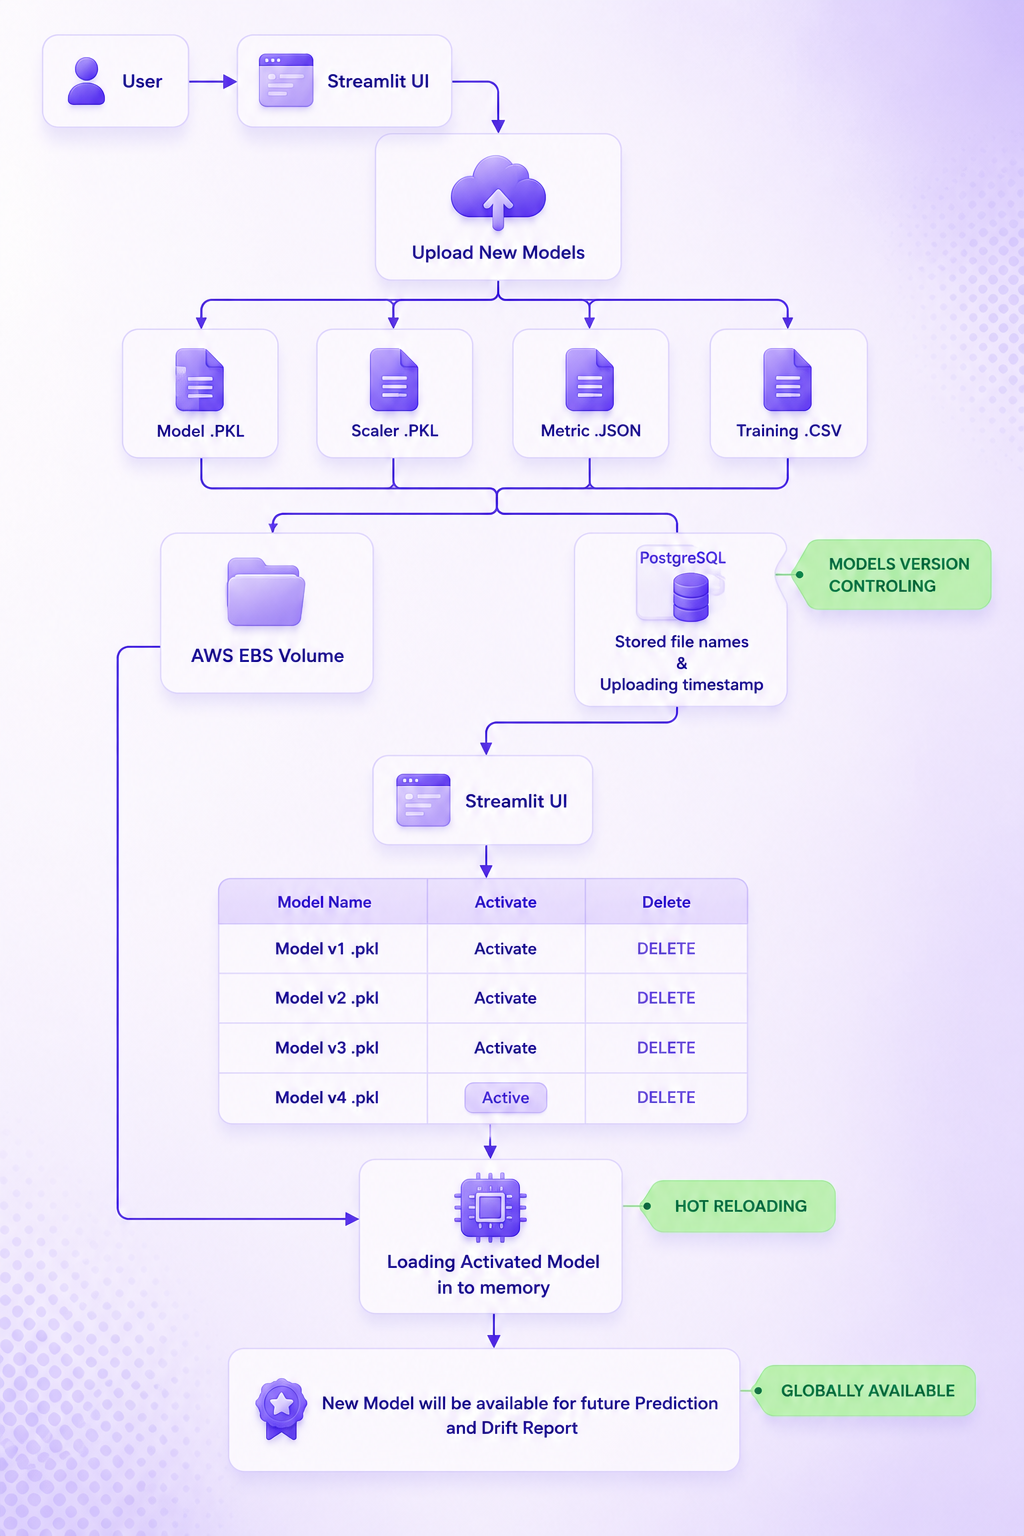
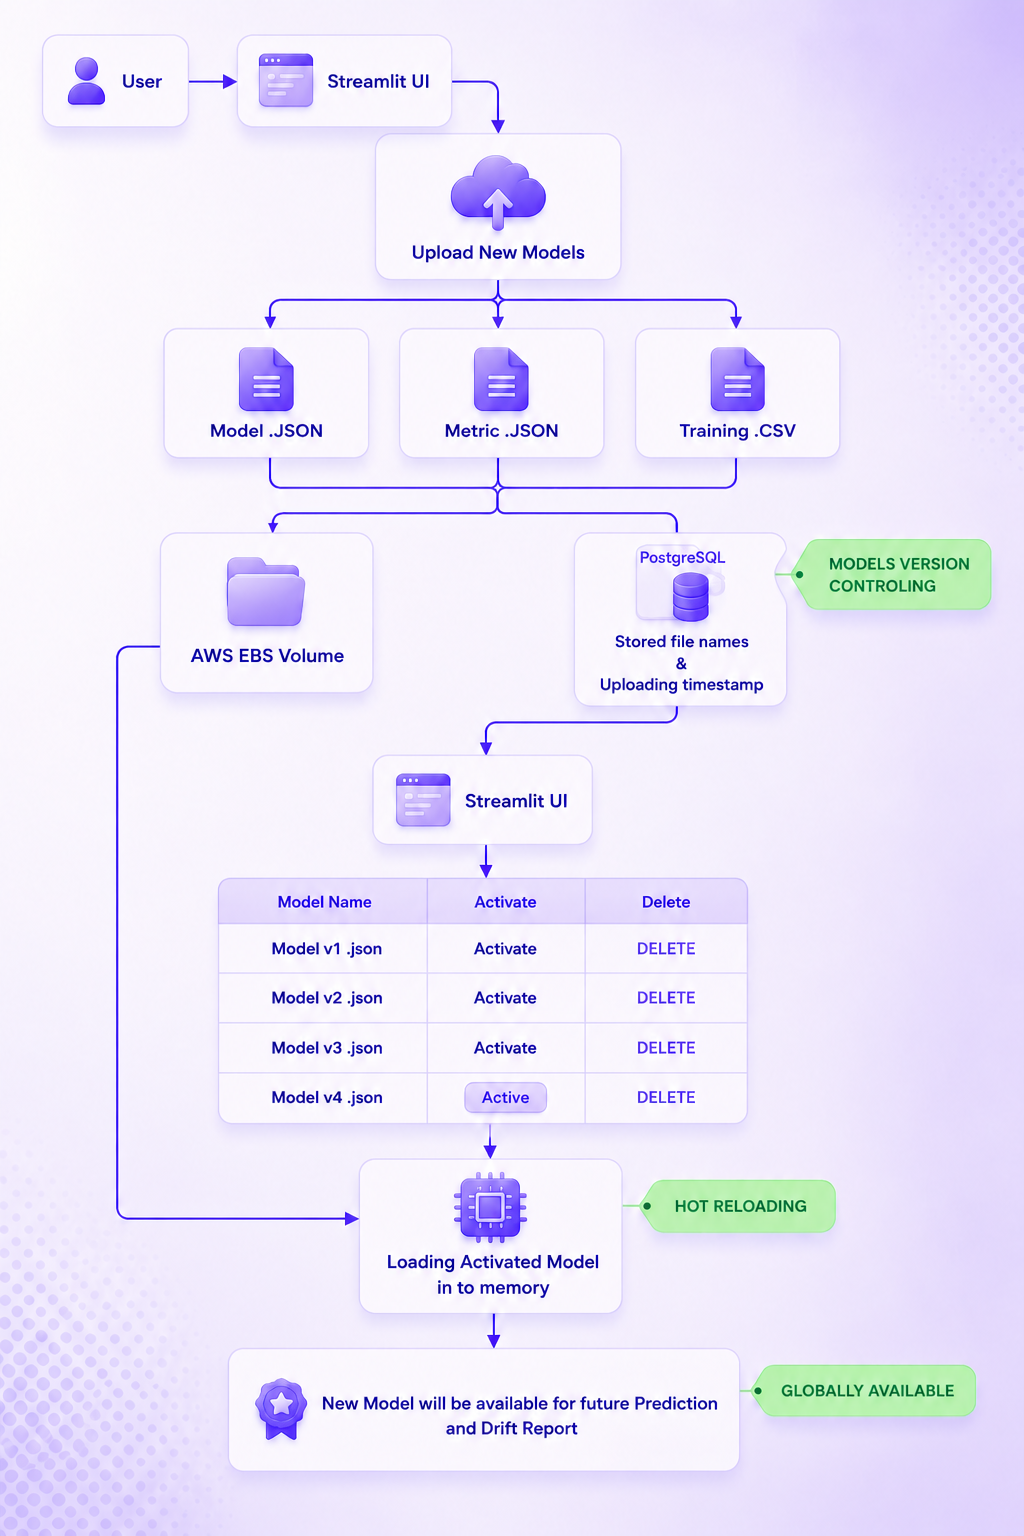
V2 Architectures design improvement

diff --git a/README.md b/README.md
@@ -121,12 +121,11 @@ DriftShield continuously monitors production prediction data by comparing it wit
 
 Monitoring a machine learning model is only one part of maintaining a production ML system. Once model degradation is identified, organizations must be able to deploy improved model versions in a controlled manner while ensuring continuous service availability and minimizing operational risks.
 
-DriftShield addresses this challenge through a centralized **Model Registry**, which manages the complete lifecycle of deployed machine learning models. Instead of manually replacing model files or modifying application code, new model versions are registered together with their required deployment artifacts, including the trained model, feature scaler, evaluation metrics, and reference dataset.
+DriftShield addresses this challenge through a centralized **Model Registry**, which manages the complete lifecycle of deployed machine learning models. Instead of manually replacing model files or modifying application code, new model versions are registered together with their required deployment artifacts, including the trained model in native XGBoost JSON format, evaluation metrics, and reference dataset.
 
-Once validated, these artifacts are stored in persistent storage and recorded within the Model Registry. Administrators can then activate any registered model through the application interface, allowing the backend to dynamically load the selected model into memory. From that point onward, all future prediction requests and drift detection operations automatically utilize the newly activated model without requiring application downtime or backend redeployment.
+Once validated, these artifacts are stored in persistent storage and recorded within the Model Registry. Authenticated users can then activate any registered model through the application interface, allowing the backend to dynamically load the selected model into memory. From that point onward, prediction requests and drift detection operations use the newly activated model and its associated reference dataset without requiring application code changes or backend redeployment.
 
-This approach separates model lifecycle management from application logic, enabling safe model versioning, simplified deployment, and a production-ready workflow for continuously improving machine learning systems.
-
+**This approach separates model lifecycle management from application logic, enabling safe model versioning, simplified deployement, and a controlled workflow for continuously improving Machine Learning Systems.**
 ---
 
 ## Architecture
@@ -138,19 +137,19 @@ This approach separates model lifecycle management from application logic, enabl
 
 ## Workflow Summary
 
-1.  The user uploads a new model package from the Streamlit Model Registry interface.
-2.  Three required artifacts are submitted:
-    -   Trained Model (`*_model.json`)
-    -   Model Metrics (`*_metrics.json`)
-    -   Reference Dataset (`*_reference.csv`)
-3.  The backend validates filenames, artifact types, and deployment requirements.
-4.  Model artifacts are stored in persistent AWS EBS storage.
-5.  Model metadata is recorded inside the PostgreSQL Model Registry.
-6.  The dashboard displays all available model versions.
-7.  The administrator activates the desired model version.
-8.  The backend hot-loads the selected model into memory.
-9.  All subsequent prediction requests automatically use the newly activated model.
-10.  Future drift reports also use the corresponding reference dataset and model artifacts associated with the active deployment.
+1. The user uploads a new model package from the Streamlit Model Registry interface.
+2. Three required artifacts are submitted:
+   - Trained Model (`*_model.json`)
+   - Model Metrics (`*_metrics.json`)
+   - Reference Dataset (`*_reference.csv`)
+3. The backend validates filenames, artifact types, and deployment requirements.
+4. Model artifacts are stored in persistent AWS EBS storage.
+5. Model metadata is recorded inside the PostgreSQL Model Registry.
+6. The dashboard displays all available model versions.
+7. The authenticated user activates the desired model version.
+8. The backend hot-loads the selected model into memory.
+9. All subsequent prediction requests automatically use the newly activated model.
+10. Future drift reports also use the corresponding reference dataset and model artifacts associated with the active deployment.
 
 
 ---
